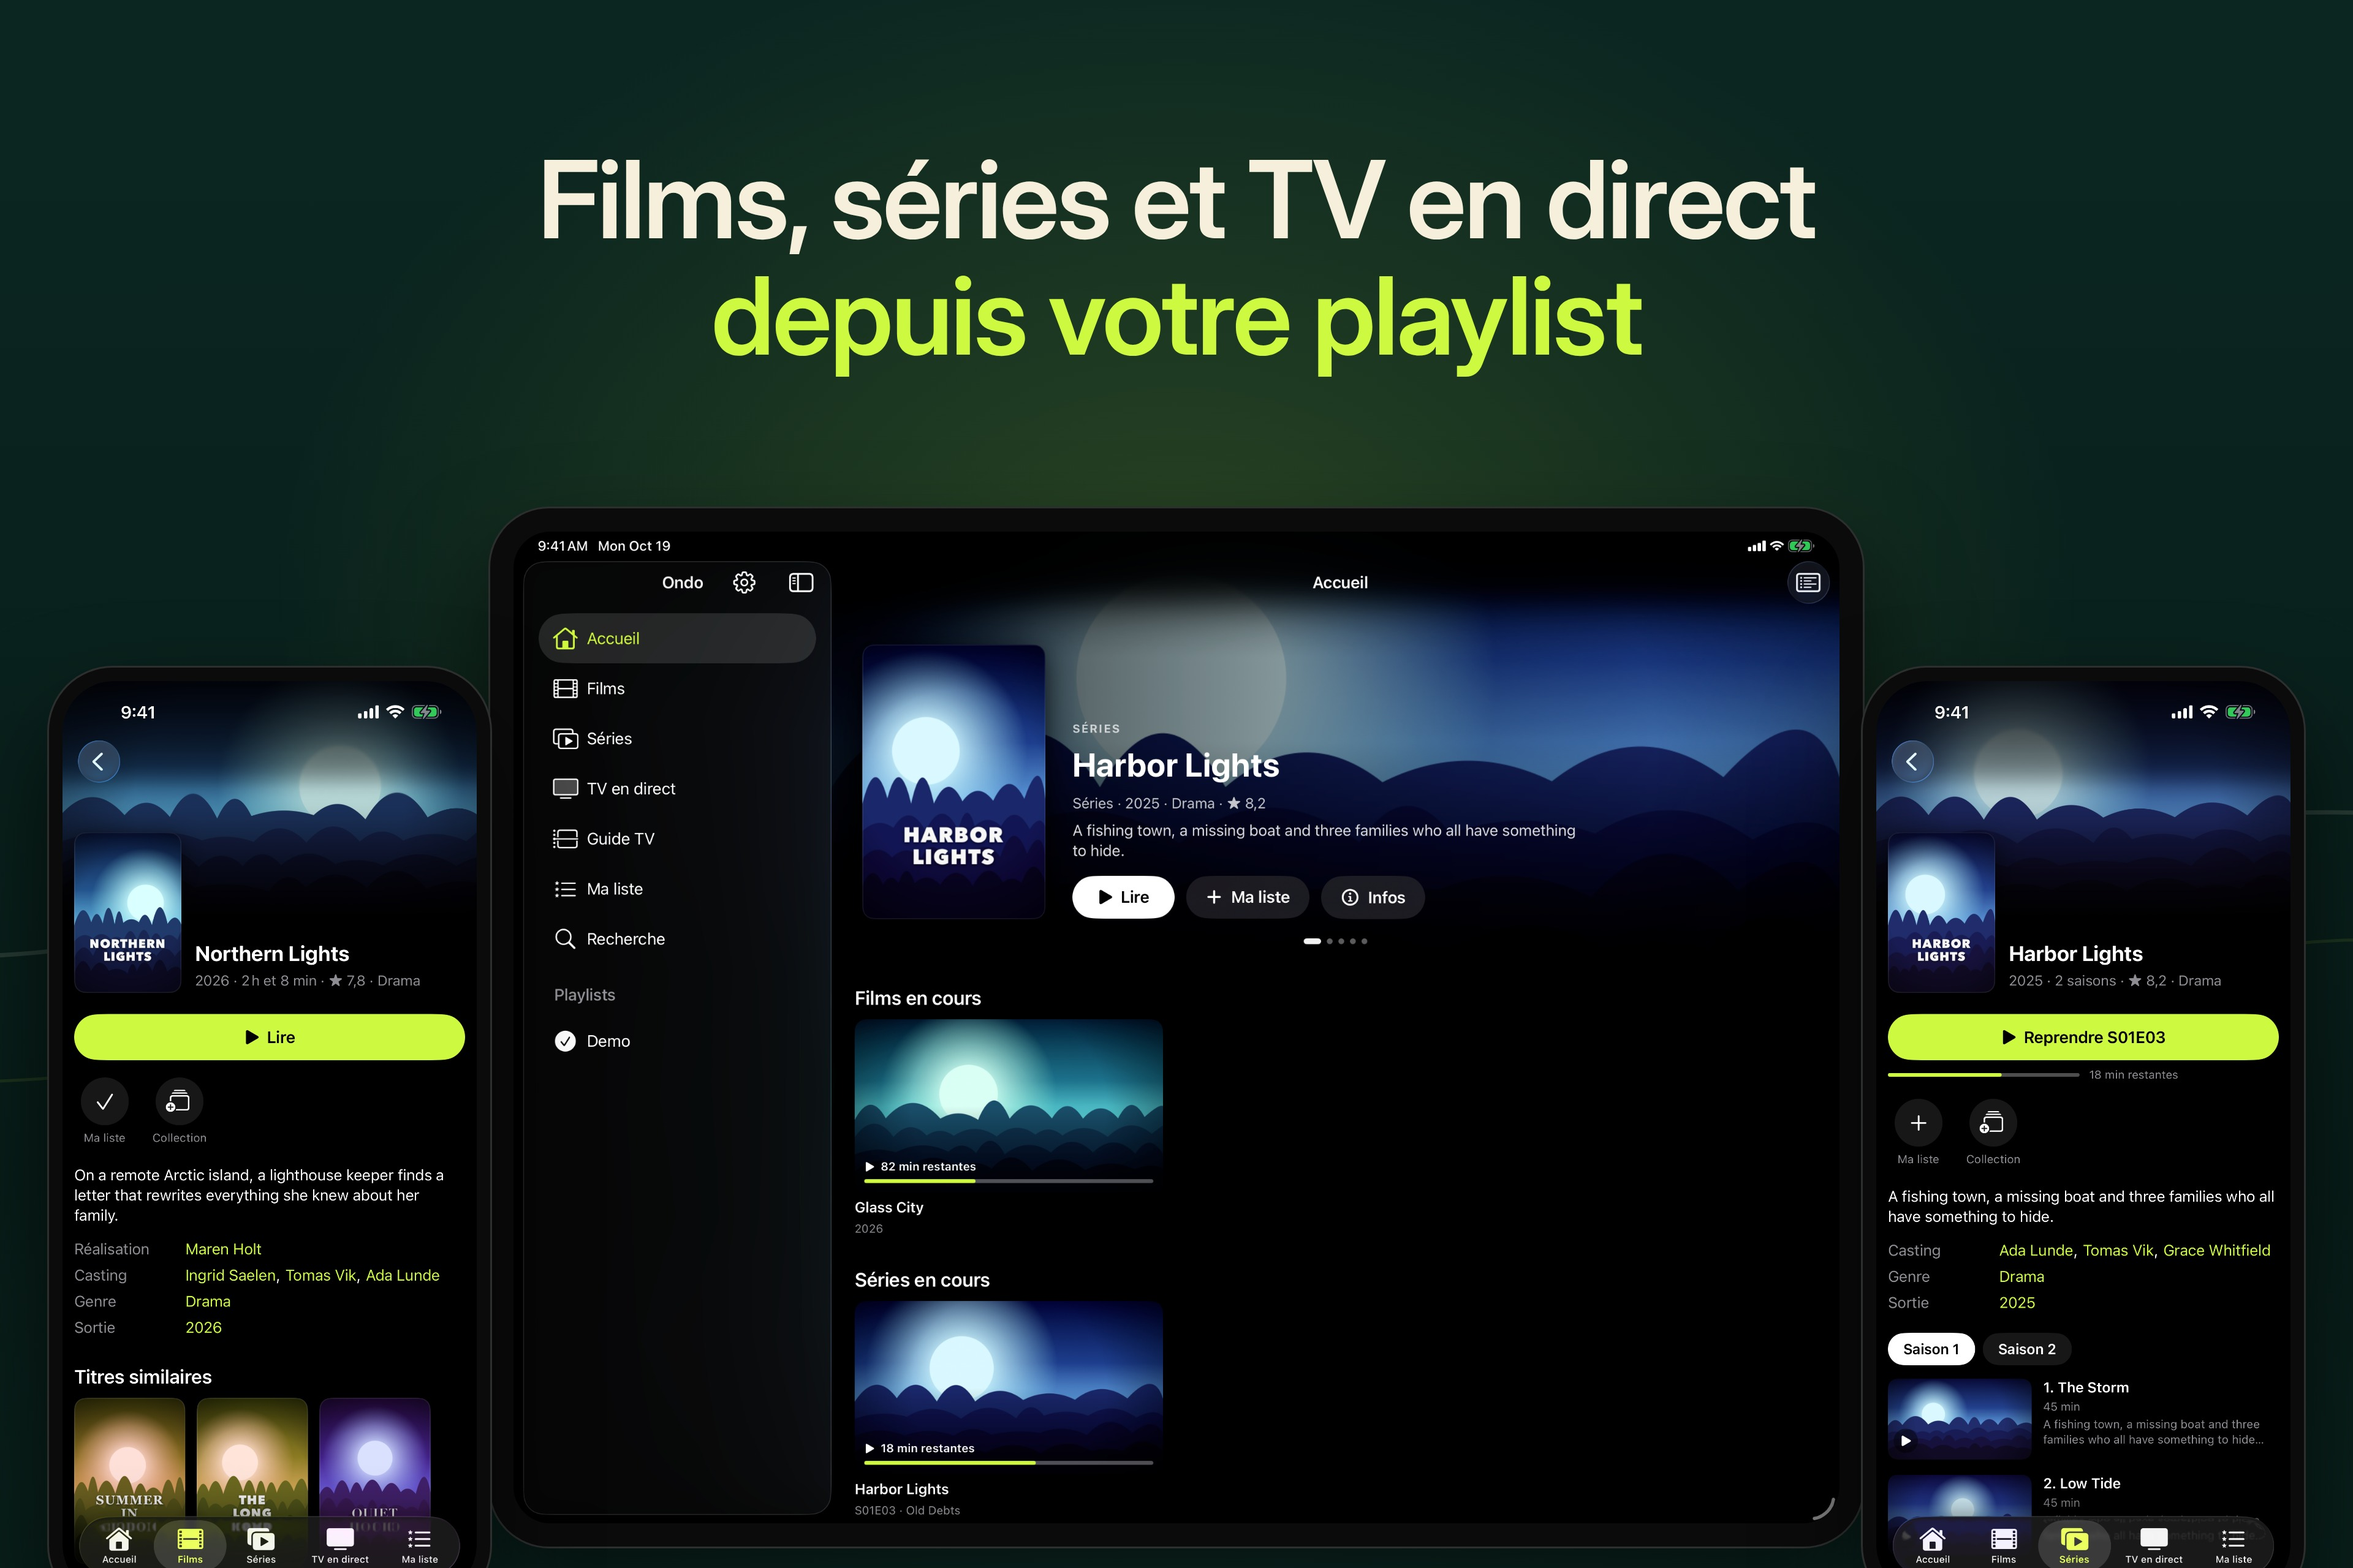
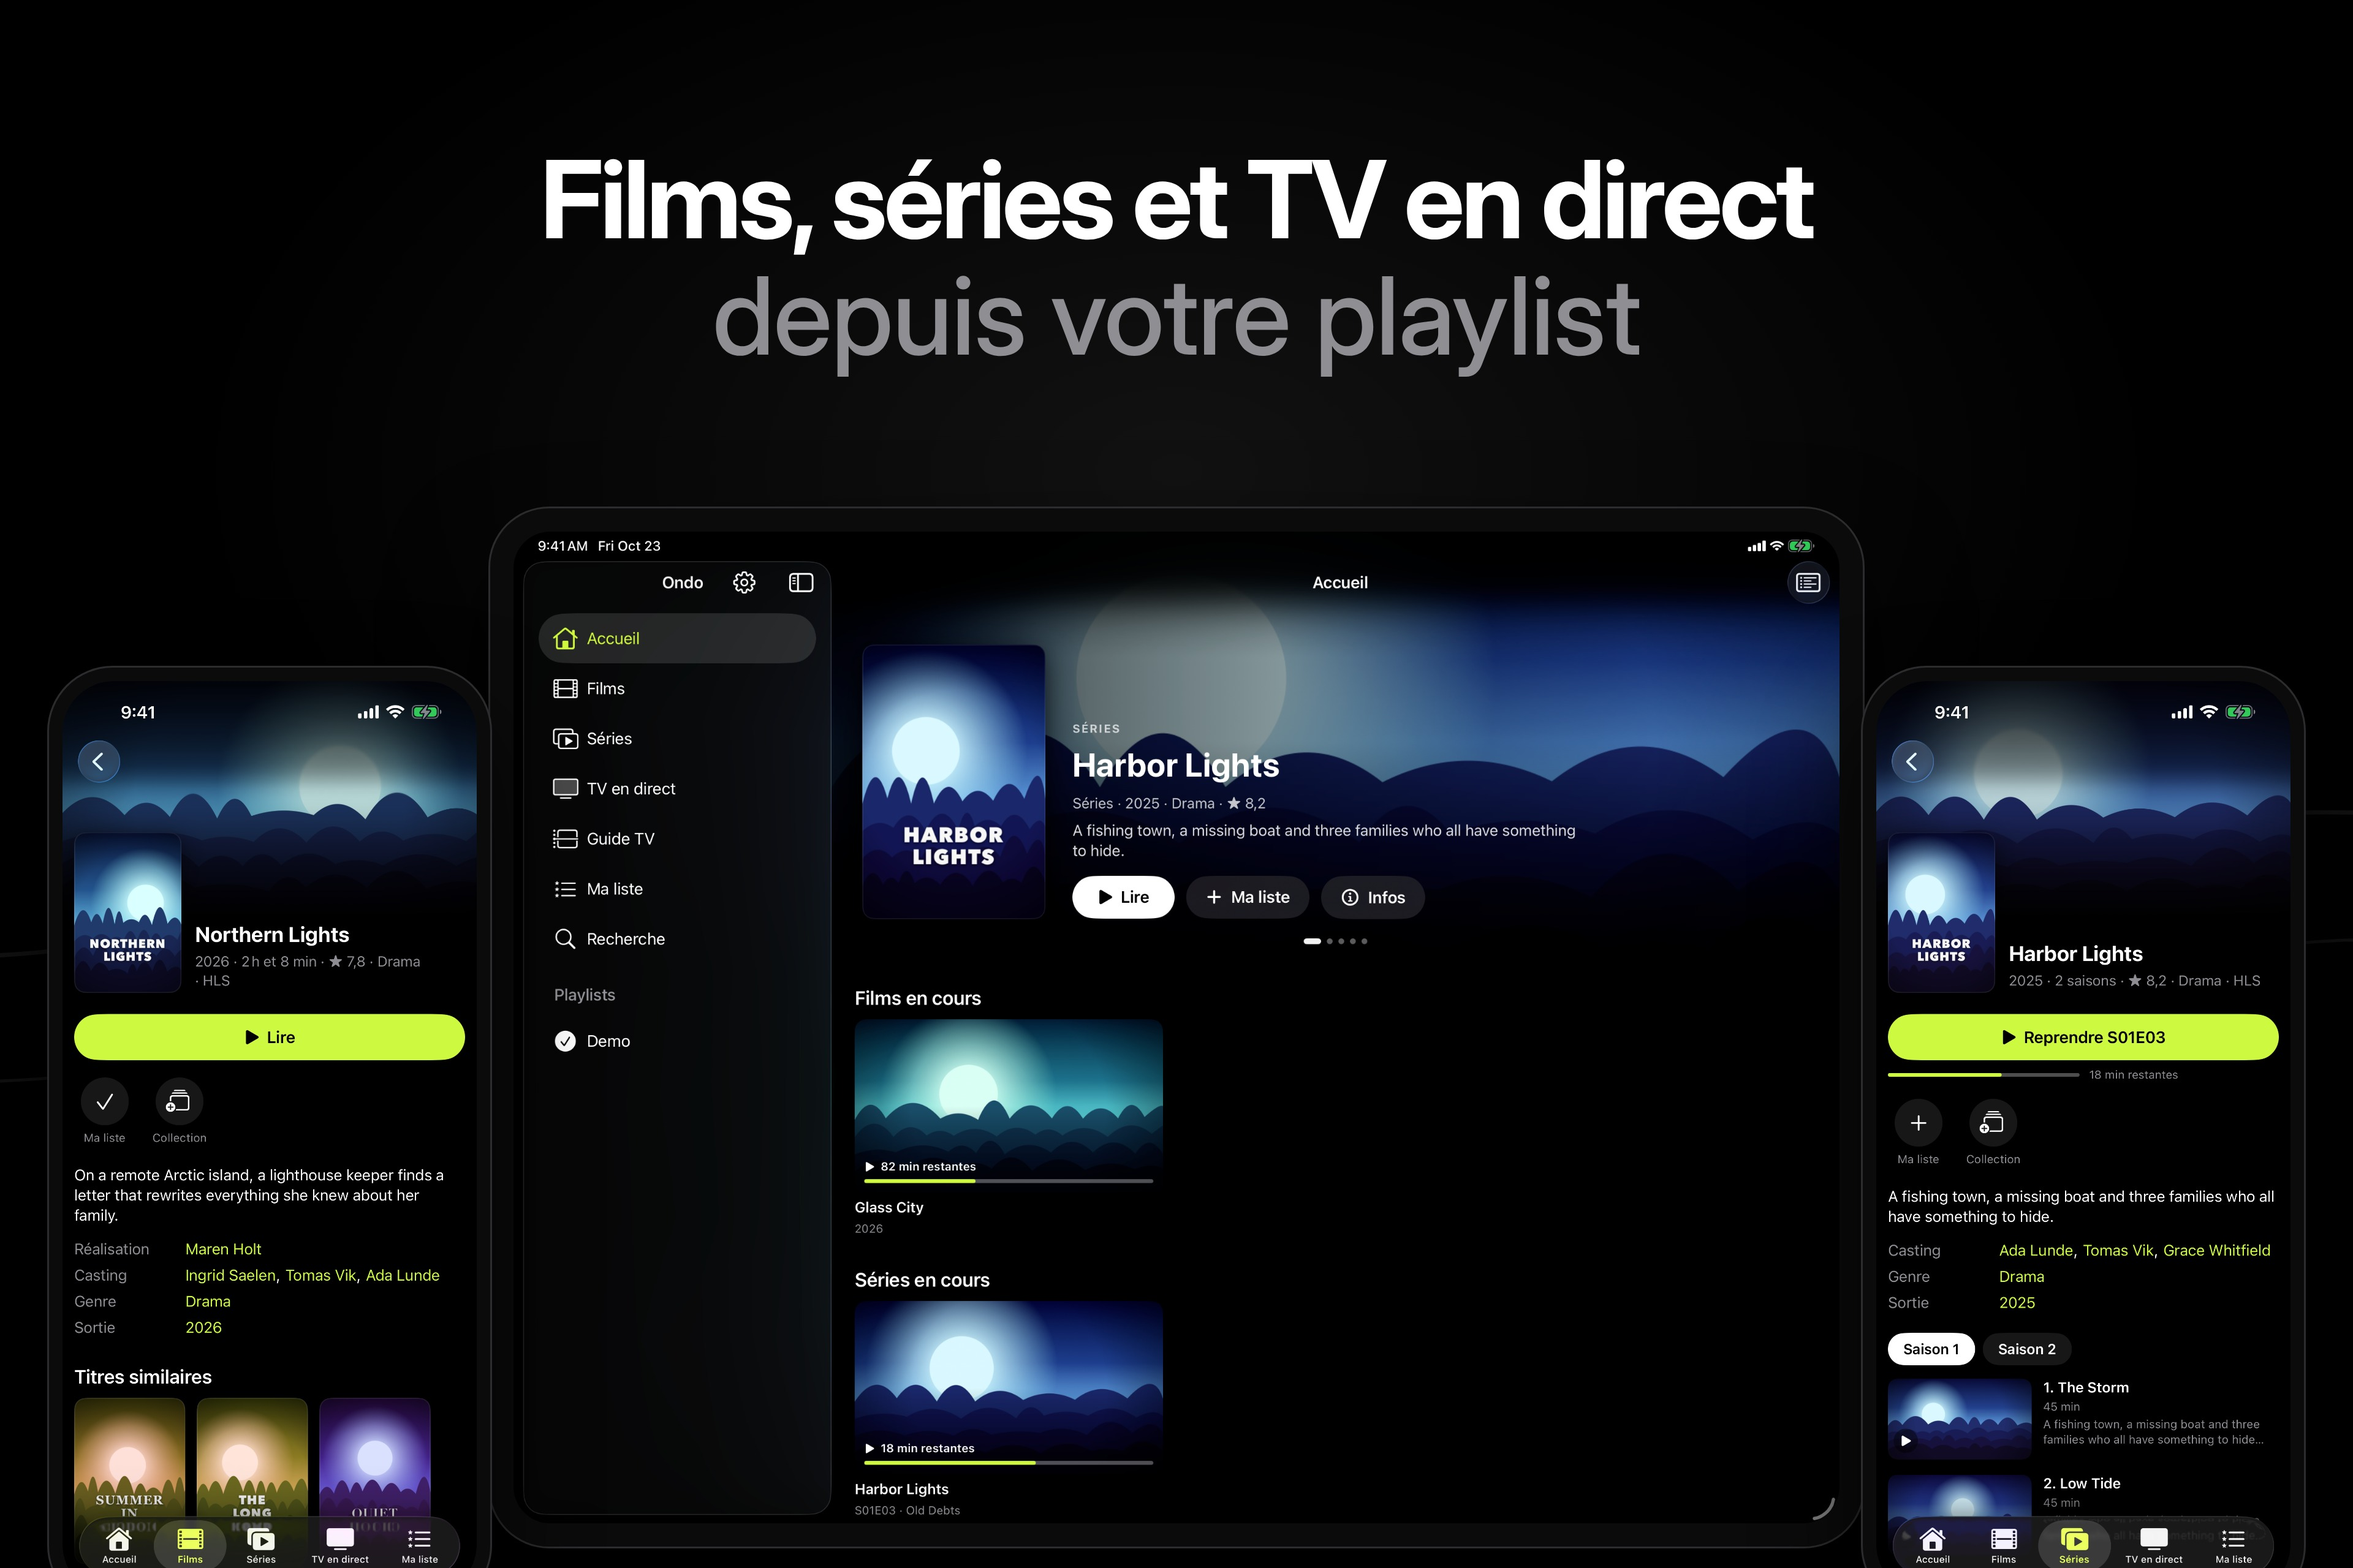
Store art: Play feature graphic, App Store header and search art, social card in black and white
feature.html renders the feature graphic in English and French (render.mjs --tv).

Claude-Session: https://claude.ai/code/session_01UBoumQ3nJi5gYVaxLoMFCr

diff --git a/fastlane/creative/feature.html b/fastlane/creative/feature.html
@@ -1,0 +1,45 @@
+<!doctype html>
+<!--
+  The Google Play listing's feature graphic (1024 × 500), drawn by render.mjs (--tv) in each listing language:
+  feature.html?locale=en-US|fr-FR. Google shows it behind a play button on some screens: the logo, the name and a
+  short phrase stay in the middle. The logo is the launcher icon's (ic_launcher_foreground.xml).
+-->
+<html>
+<head>
+<meta charset="utf-8">
+<style>
+  * { box-sizing: border-box; margin: 0; padding: 0; }
+  html, body { width: 1024px; height: 500px; overflow: hidden; }
+  body {
+    display: flex; flex-direction: column; align-items: center; justify-content: center; gap: 26px;
+    font-family: "Inter Display", "Inter", sans-serif;
+    /* Pure black, a faint light behind the logo. */
+    background: radial-gradient(ellipse 50% 60% at 50% 42%, rgba(255, 255, 255, 0.08), transparent 70%), #000000;
+  }
+  .brand { display: flex; align-items: center; gap: 26px; }
+  svg { display: block; width: 150px; height: 150px; }
+  .name { color: #ffffff; font-size: 120px; font-weight: 700; letter-spacing: -0.04em; line-height: 1; }
+  .line { color: #8e8e93; font-family: "Inter", sans-serif; font-size: 34px; font-weight: 500; letter-spacing: -0.01em; }
+</style>
+</head>
+<body>
+<div class="brand">
+  <svg viewBox="26 26 56 56" aria-hidden="true">
+  <circle cx="54" cy="54" r="21.10" fill="none" stroke="#ffffff" stroke-width="8.28"/>
+  <path d="M28.55,54.00 L28.97,54.40 L29.40,54.79 L29.82,55.18 L30.24,55.56 L30.67,55.93 L31.09,56.29 L31.52,56.63 L31.94,56.96 L32.37,57.27 L32.79,57.56 L33.21,57.83 L33.64,58.08 L34.06,58.30 L34.49,58.49 L34.91,58.66 L35.34,58.79 L35.76,58.90 L36.18,58.98 L36.61,59.02 L37.03,59.04 L37.46,59.02 L37.88,58.98 L38.30,58.90 L38.73,58.79 L39.15,58.66 L39.58,58.49 L40.00,58.30 L40.43,58.08 L40.85,57.83 L41.27,57.56 L41.70,57.27 L42.12,56.96 L42.55,56.63 L42.97,56.29 L43.40,55.93 L43.82,55.56 L44.24,55.18 L44.67,54.79 L45.09,54.40 L45.52,54.00 L45.94,53.60 L46.36,53.21 L46.79,52.82 L47.21,52.44 L47.64,52.07 L48.06,51.71 L48.49,51.37 L48.91,51.04 L49.33,50.73 L49.76,50.44 L50.18,50.17 L50.61,49.92 L51.03,49.70 L51.45,49.51 L51.88,49.34 L52.30,49.21 L52.73,49.10 L53.15,49.02 L53.58,48.98 L54.00,48.96 L54.42,48.98 L54.85,49.02 L55.27,49.10 L55.70,49.21 L56.12,49.34 L56.55,49.51 L56.97,49.70 L57.39,49.92 L57.82,50.17 L58.24,50.44 L58.67,50.73 L59.09,51.04 L59.51,51.37 L59.94,51.71 L60.36,52.07 L60.79,52.44 L61.21,52.82 L61.64,53.21 L62.06,53.60 L62.48,54.00 L62.91,54.40 L63.33,54.79 L63.76,55.18 L64.18,55.56 L64.61,55.93 L65.03,56.29 L65.45,56.63 L65.88,56.96 L66.30,57.27 L66.73,57.56 L67.15,57.83 L67.57,58.08 L68.00,58.30 L68.42,58.49 L68.85,58.66 L69.27,58.79 L69.70,58.90 L70.12,58.98 L70.54,59.02 L70.97,59.04 L71.39,59.02 L71.82,58.98 L72.24,58.90 L72.66,58.79 L73.09,58.66 L73.51,58.49 L73.94,58.30 L74.36,58.08 L74.79,57.83 L75.21,57.56 L75.63,57.27 L76.06,56.96 L76.48,56.63 L76.91,56.29 L77.33,55.93 L77.76,55.56 L78.18,55.18 L78.60,54.79 L79.03,54.40 L79.45,54.00" fill="none" stroke="#8e8e93" stroke-width="4.5" stroke-linecap="round" stroke-linejoin="round"/>
+</svg>
+  <span class="name">Ondo</span>
+</div>
+<p class="line" id="line"></p>
+<script>
+  // What Ondo is, never "free" (CLAUDE.md): a player for the viewer's own playlist.
+  const lines = {
+    "en-US": "Movies, series and live TV from your own playlist",
+    "fr-FR": "Films, séries et TV en direct depuis votre playlist",
+  };
+  const locale = new URLSearchParams(location.search).get("locale") || "en-US";
+  document.getElementById("line").textContent = lines[locale];
+  document.fonts.ready.then(() => { document.body.dataset.ready = "1"; });
+</script>
+</body>
+</html>

diff --git a/fastlane/creative/template.html b/fastlane/creative/template.html
@@ -10,24 +10,22 @@
 <meta charset="utf-8">
 <style>
   :root {
-    --deep: #071a16;
-    --brand: #11362f;
-    --lime: #cef941;
-    --cream: #f5efdc;
+    --ground: #000000;
+    --raised: #1c1c1e;
+    --white: #ffffff;
+    --grey: #8e8e93;
   }
   * { box-sizing: border-box; margin: 0; padding: 0; }
-  html, body { width: 100%; height: 100%; overflow: hidden; background: var(--deep); }
+  html, body { width: 100%; height: 100%; overflow: hidden; background: var(--ground); }
   body {
     position: relative;
     font-family: "Inter Display", "Inter", sans-serif;
-    background:
-      radial-gradient(ellipse 55% 60% at 50% 38%, rgba(206, 249, 65, 0.16), transparent 70%),
-      radial-gradient(ellipse 90% 80% at 50% 110%, rgba(17, 54, 47, 0.95), transparent 70%),
-      linear-gradient(180deg, #0b2621 0%, var(--deep) 100%);
+    /* Pure black, a faint light from above the devices: the pictures on their screens carry the colour. */
+    background: radial-gradient(ellipse 60% 55% at 50% 30%, rgba(255, 255, 255, 0.07), transparent 70%), var(--ground);
   }
   svg.waves { position: absolute; inset: 0; width: 100%; height: 100%; }
   .stage { position: absolute; left: 50%; transform: translateX(-50%); }
-  .device { position: absolute; background: #0b0b0c; box-shadow: 0 0 0 3px #2c2f2e, 0 80px 160px rgba(0, 0, 0, 0.6); }
+  .device { position: absolute; background: #0b0b0c; box-shadow: 0 0 0 3px #2c2c2e, 0 80px 160px rgba(0, 0, 0, 0.8); }
   /* The iPad screenshots carry a rotated orientation tag from the simulator; their pixels are already upright. */
   .device img { display: block; width: 100%; height: 100%; object-fit: cover; image-orientation: none; }
   .tablet { border-radius: 96px; padding: 38px; }
@@ -36,18 +34,19 @@
   .phone img { border-radius: 84px; }
   h1 {
     position: absolute; left: 0; right: 0; text-align: center;
-    color: var(--cream); font-weight: 600; letter-spacing: -0.02em; line-height: 1.08;
+    color: var(--white); font-weight: 700; letter-spacing: -0.03em; line-height: 1.08;
   }
-  h1 span { display: block; color: var(--lime); }
+  /* The phrase under the name: lighter and less tight than the name. */
+  h1 span { display: block; color: var(--grey); font-weight: 500; letter-spacing: -0.01em; }
 </style>
 </head>
 <body>
 <svg class="waves" viewBox="0 0 1000 1000" preserveAspectRatio="none" aria-hidden="true">
   <!-- The icon's wave, drawn across the whole width behind the devices. -->
   <path d="M -20 610 C 140 610, 200 470, 330 470 S 520 640, 640 640 S 860 500, 1020 520"
-        fill="none" stroke="#f5efdc" stroke-opacity="0.13" stroke-width="7" vector-effect="non-scaling-stroke"/>
+        fill="none" stroke="#ffffff" stroke-opacity="0.07" stroke-width="7" vector-effect="non-scaling-stroke"/>
   <path d="M -20 690 C 160 690, 230 560, 360 560 S 560 720, 690 720 S 880 590, 1020 600"
-        fill="none" stroke="#cef941" stroke-opacity="0.10" stroke-width="5" vector-effect="non-scaling-stroke"/>
+        fill="none" stroke="#8e8e93" stroke-opacity="0.12" stroke-width="5" vector-effect="non-scaling-stroke"/>
 </svg>
 <h1 id="title"></h1>
 <div class="stage" id="stage"></div>
